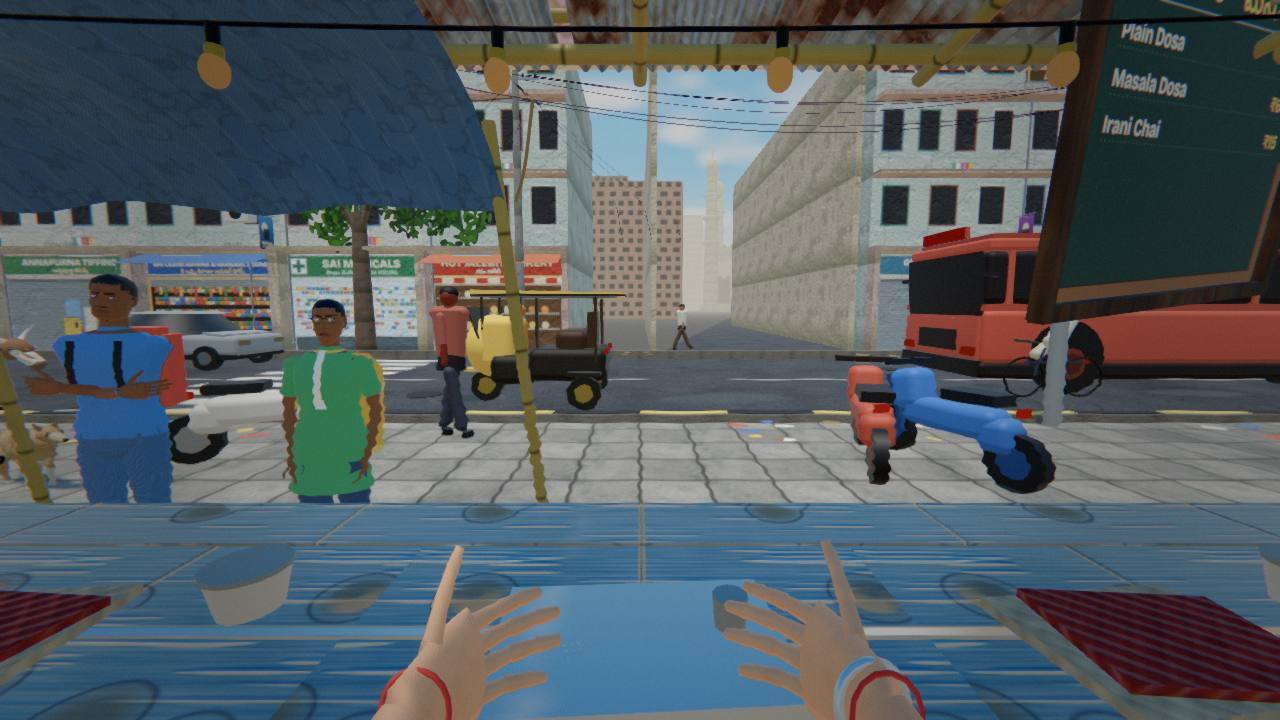
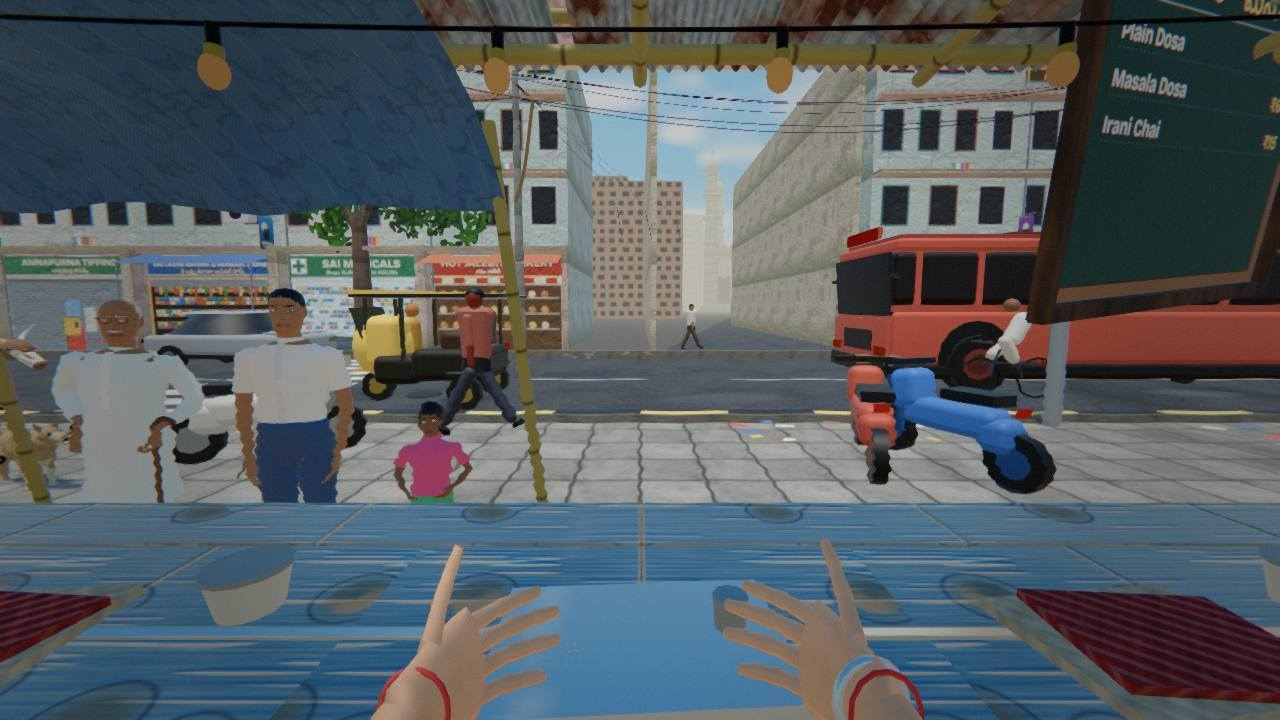
docs(perf): tf-prog2 report (programs, draws, load, hitches, screenshots, risks), final after-pictures, perf README

diff --git a/docs/perf/tf-prog2.md b/docs/perf/tf-prog2.md
@@ -2,132 +2,140 @@
 
 Branch `perf/tf-prog2` (cut from main `a4a2390`, main merged in at the end). It replaces the stalled `tf-prog` stream: that stream's unreviewed WIP (`13fd84c`) was
 reviewed, finished and wired in (section 2). Machine: the dev laptop's integrated AMD Radeon (`ANGLE (AMD, AMD Radeon(TM) Graphics (0x00001638) Direct3D11)`), Chrome
-headless on the real GPU, production build, 1536x864 @ 1.25, **tier pinned to medium** (see 0), practice level 1 unless a row says tutorial. Every A/B below is two
-builds (`main` on port 5852, the branch on 5853 / 5856) measured back to back or interleaved on the same machine, the same minutes.
+headless on the real GPU, production build, 1536x864 @ 1.25, **tier pinned to medium** (see 0), practice level 1 unless a row says tutorial. Every A/B is two builds
+(`main` on one preview port, the branch on another) measured back to back or interleaved on the same machine in the same minutes. Other agents were running builds and
+tests on this laptop all afternoon (CPU 60 to 75 % at times): the order of two builds in an interleaved pair is meaningful, an absolute number moves by 20 %.
 
 ## 0. What the default tier is on this machine, and what was measured
 
-On this machine **Auto ends on `lite`** (`bench.mjs --game tiffin`, no tier: `tier: lite`, 998 fps, 126 draw calls, 85 programs, 0 frames over 50 ms): the governor
-leaves `medium` because medium cannot hold its frame budget on the iGPU (tf-int, section 3). `lite` already meets the draw-call and program targets, and its load is
-4.2 s cold / 1.9 s warm. Everything that is wrong is in **medium** (and high), so every number here is medium, pinned through the Graphics setting
-(`--tier medium`). If medium gets cheap the governor has a reason to stay on it.
+On this machine **Auto ends on `lite`** (`bench.mjs --game tiffin`, no tier, quiet machine: `tier: lite`, 998 fps, 126 draw calls, 85 programs, 0 frames over 50 ms): the
+governor leaves `medium` because medium cannot hold its frame budget on the iGPU (tf-int, section 3). `lite` already meets the draw-call and program targets and loads in
+4.2 s cold / 1.9 s warm. Everything that is wrong is in **medium** (and high), so every number below is medium unless it says lite, pinned through the Graphics setting
+(`--tier medium`). If medium gets cheap the governor has a reason to stay on it. **Lite and low are not slower to load than on main** (section 3).
 
-## 1. Headline (medium, same conditions, main vs this branch)
+## 1. Headline (medium, main vs this branch)
 
 | | main (`a4a2390`) | this branch | how it was measured |
 |---|---|---|---|
-| shader programs created **after** the reveal | 9 in the first 3 s (every dish, 2 depth programs), then rain +4, cricket +2, festival +2, inspector +1 | **0** (60 s of level 1 and six forced events) | `tf-census.mjs`, `tf-events.probe.js`, `scene.debug.reveal` |
+| shader programs created **after** the reveal | 9 in the first 3 s (every dish, 2 depth programs), then rain +4, cricket +2, festival +2, inspector +1 | **0** (60 s of level 1 and six forced events; `tf-census --strict` passes) | `tf-census.mjs`, `tf-events.probe.js`, `scene.debug.reveal` |
 | programs at the reveal / after a session with events | 93-104 / 111 | 112-115 / 112 | same |
-| first appearance of an event (frames over 50 ms) | rain 252 ms, cricket 206, festival 359, inspector 131 (+113 geometries), rain+power+festival 161 | **none over 51 ms** (worst: power 50, cricket 51) | `tf-events.probe.js` forces each event on in the live page |
-| a customer walks up (frame that pays for it) | 15-50 ms (one 49 and one 50 ms frame in two 60 s runs) | **1-33 ms**, built a stage per frame (<= 8 ms each) | `tf-hitch.probe.js`, `tf-build-times.mjs` |
-| main-pass draw calls, **3 customers** (uncle, office, office) | 359 (463 with the shadow pass) | **166 (204)** | `tf-draws.probe.js` |
-| draw calls of ONE customer, main / shadow pass | 59-93 / 25-39 | **11-13 (family 20) / 7-8 (15)** | same |
-| main-pass draws, tutorial, no customers | 140 | **135** | `tf-who.probe.js` (onBeforeRender counter) |
-| `renderer.info.render.calls`, tutorial frame (shadow + post included) | 172 | **163** | `tf-load.mjs` |
-| load, warm shader cache (click to `window.__tiffin`) | 3.06 / 3.37 s | 3.81 / 3.81 s | `tf-load.mjs --passes 2`, 2 interleaved pairs |
+| first appearance of an event (worst frame) | rain 252 ms, cricket 206, festival 359, inspector 131 (+113 geometries), rain+power+festival 161 | **34 to 59 ms** in three runs (power 41-50, cricket 36-51, festival 37-59) | `tf-events.probe.js` forces each event on in the live page |
+| a customer walks up (the frame that pays for it) | 15-50 ms (a 49 and a 50 ms frame in two 60 s runs) | **0-33 ms**, built a stage per frame (<= 8 ms each) | `tf-hitch.probe.js`, `tf-build-times.mjs` |
+| main-pass draw calls with **3 customers** | 359 (463 with the shadow pass) | **153 (192)** | `tf-draws.probe.js` |
+| draw calls of ONE customer, main / shadow pass | 59-93 / 25-39 | **11-13 (family 20) / 7-9 (15)** | same |
+| main-pass draws, tutorial, no customers | 140 | **122** | `tf-who.probe.js` (onBeforeRender counter) |
+| `renderer.info.render.calls`, tutorial frame (shadow + post included) | 168-172 | **134-150** (traffic in view changes it) | `tf-who`, `tf-load.mjs` |
+| load, warm shader cache (click to `window.__tiffin`) | 3.06 / 3.37 s | 3.81 / 3.81 s (a later pair under load: main 3.5 / 3.5, branch 4.0 / 3.8) | `tf-load.mjs --passes 2`, interleaved pairs |
 | load, cold shader cache | 10.3 / 10.9 s | **11.9 / 12.3 s** | same |
-| long tasks of the 60 s level-1 run (>= 50 ms) | 1-3 | 0-2 | `tf-hitch.probe.js` (fixed render scale 0.7, no governor) |
-| frames over 50 ms after the first 3 s, same run | 1-2 | 0-2 | same |
+| lite load, warm / cold | 2.1-2.3 / 4.2-5.6 s | 2.3 / 4.6 s (unchanged) | `tf-load.mjs --tier lite` |
+| long tasks (>= 50 ms) in a 60 s level-1 run, fixed render scale 0.7 | 1-3 | 0-5 (the last run was under heavy machine load) | `tf-hitch.probe.js` |
+| frames over 50 ms after the first 3 s, same runs | 1-2 | 0-2 | same |
 
-**Not claimed: frame rate.** Two interleaved pairs of 60 s runs at a fixed scale: 3137 / 3136 frames (main) against 3586 / 3750 (branch); a later pair gave 3825 (main)
-against 3561 (branch). The customers that walk up differ between runs and the machine drifts by 20 %: I cannot say faster or slower from those. What is solid: the draw
-calls, the programs, the hitch tables. In the per-section profile (`h.cpu`) the render section's main-thread time went from 17.7-19.4 ms (357-435 calls) to 14.8-18.4 ms
-(208-222 calls) with the same GPU median (12.9-16.5 ms main, 12.9-14.0 branch): the frame is **GPU-bound on this iGPU at medium**, so fewer draws buy a few ms of
-command submission and no more.
+**Not claimed: frame rate.** Interleaved pairs of 60 s runs at a fixed scale gave 3137 / 3136 frames (main) against 3586 / 3750 (branch) early on, 3825 against 3561 later, and 2861
+in the last run (the laptop was busy): the customers that walk up differ between runs and the machine drifts by 20 %, I cannot say faster or slower from them. What is solid:
+the draw calls, the programs, the hitch tables. The per-section profile (`h.cpu`, two customers in view) put the render section's main-thread time at 17.7-19.4 ms (357-435 calls) on
+main and 14.8-18.4 ms (208-222 calls) on the branch with the same GPU median (12.9-16.5 ms main, 12.9-14.0 branch): the frame is **GPU-bound on this iGPU at medium**, so fewer
+draws buy a few ms of command submission and no more.
 
-Targets of the brief, honestly: no program after the reveal **met**; zero frames over 50 ms after 3 s **not met strictly** (0-2 per minute remain, none from a compile or a
-model build: section 4); click-to-playable warm <= 6 s **met** (3.8 s), cold <= 12 s **borderline** (11.9-12.3 s, +1.7 s over main because 10 more programs are
-linked behind the loading screen instead of in play); main-pass draw calls <= 120 **not met** (135 without customers, 166 with three; the customers are fixed, the
-static scene is not: section 5).
+Targets of the brief, honestly: **no program after the reveal: met** (medium and high; lite and low keep their old post-reveal dish warm-up: section 3); **zero frames over 50 ms after
+3 s: not met strictly** (0-2 a minute remain on both builds, none from a compile or a model build; section 4); **click-to-playable warm <= 6 s: met** (3.8 s), **cold <= 12 s:
+borderline** (11.9-12.3 s, +1.7 s over main because 10 more programs are linked behind the loading screen instead of in play); **main-pass draw calls <= 120: not met** (122 without
+customers, 153 with three; the customers are fixed, the static scene is not: section 5).
 
-## 2. What changed (commits `3d5037c`, `3b34587`, `812238a`)
+## 2. What changed (commits `3d5037c`, `3b34587`, `812238a`, `70079aa`)
 
-1. **Review of the WIP `13fd84c`.** Taken: `models/pack.js` (+ its tests), the `skin.js` packed material variants, the `pack` draw mode, `withEverythingDrawn`, the
-   probe scripts. Rewritten: the preload was never called (its `warmPark` was added to the actors root for every scene, which broke the scene test that counts the actors'
-   children; the tools could not be warmed because the viewmodel did not exist yet; the world fx update ran every frame once they were created). `zz-census.scratch.test.js`
-   was not taken.
-2. **Packed people** (`models/pack.js`, medium and high; lite and low keep their baked path). The rig (limbs, cloth, face morph targets, IK) is untouched and still
-   drives its own nodes; every skin / eye / hair / plain-standard mesh of a person is written, after the rig's update, into ONE dynamic mesh per shading class (skin,
-   eye, hair, uber, plus one per odd material) and the rig's own meshes are retired (`isMesh` shadowed by false: not drawn, not shadowed, not compiled). The face skin
-   (13 GPU morph targets) and transparent / emissive props stay live. A customer is 11-13 draws (+7-8 in the shadow pass) instead of 59-93 (+25-39), the cook's own
-   arms 4. **Picture checked** (section 6): the same six customers photographed unpacked and packed differ by 2.5 grey levels on average inside the people region
-   (1.7 % of the pixels over 16), the interiors are identical and only sub-pixel silhouette edges differ.
-3. **One of everything is built, linked and drawn before the reveal** (`sync.preload()`, `settleFirstFrame` in `scene/index.js`, `withEverythingDrawn` in `loader.js`): the
-   weather and the events' props, the inspector, the delivery rider and his scooter, a parcel bag, a regular's star, a plate of every dish (and one `perfect` plate: the wisp
-   shader), every tool of the cook's hands, one customer of every kind and a cook (as before). The scene is then drawn ONCE with every hidden object visible and nothing
-   culled (parked customers, rain, TV, tools, far street), which pays the first-draw cost of everything: uploads, the shadow-depth programs, the driver's per-program
-   first use. A second, normal frame follows. The post-reveal shader warm-up (one dish per frame for 12 s: the hitches at 3 to 5 s) is gone. `scene.debug.reveal`
-   ( `{ atReveal, count, late: [...] }`, `createRevealWatch` in `loader.js`, unit-tested) lists any program created after the reveal; `tf-census.mjs --strict` exits 1 when
-   there is one. (A tier switch builds the new tier's programs on purpose, behind a held frame: it is listed too.)
-4. **Customers are built a stage per frame** (`buildPersonSteps`, `buildCustomerSteps`: head, body, hair, clothes, props, pose, packing; `sync.stepBuilds`, a 5 ms budget a
-   frame). Warm stage times (`tf-build-times.mjs`, six kinds x three seeds): 0.1 to 8 ms per step, 9 to 21 ms for the whole build (it was ~27). The customer appears a few
-   frames after the state says so (the walk-in lasts 1.5 s); a customer who is gone before he is ready is dropped, the first state and late joins are still built at once.
-5. **Tint merge** (`merge.js`): textured standard materials with the same texture set and only a different colour (the street's plasters: one texture, six paints) fold into
-   one vertex-coloured draw (`isTintable`, `tintMaterialFor`, 3 tests). Street-static 19 -> 14 draws.
-6. Probes (all `tf-probe.mjs` bodies unless noted): `tf-draws`, `tf-who` (every drawn object and its material, from an `onBeforeRender` counter), `tf-hitch` (every frame with
-   its cause), `tf-cpu`, `tf-events`, `tf-nodes`, `tf-dead`, `tf-progsize`; `tf-people-qa.mjs` (packed against unpacked people, needs a Vite dev server as the base), `tf-census.mjs
-   --strict`.
+1. **Review of the WIP `13fd84c`.** Taken: `models/pack.js` (+ tests), the `skin.js` packed material variants, the `pack` draw mode, `withEverythingDrawn`, the probe scripts.
+   Rewritten: the preload was never called (its `warmPark` was added to the actors root for every scene, which broke the scene test that counts the actors' children; the tools could not
+   be warmed because the viewmodel did not exist yet; the world fx update ran every frame once they were created). `zz-census.scratch.test.js` was not taken.
+2. **Packed people** (`models/pack.js`, medium and high; lite and low keep their baked path). The rig (limbs, cloth, face morph targets, IK) is untouched and still drives its own nodes;
+   every skin / eye / hair / plain-standard mesh of a person is written, after the rig's update, into ONE dynamic mesh per shading class (skin, eye, hair, uber, plus one per odd
+   material) and the rig's own meshes are retired (`isMesh` shadowed by false: not drawn, not shadowed, not compiled). The face skin (13 GPU morph targets) and transparent / emissive
+   props stay live. A customer is 11-13 draws (+7-9 in the shadow pass) instead of 59-93 (+25-39), the cook's own arms 4 (was 12). **Picture checked** (section 6).
+3. **One of everything is built, linked and drawn before the reveal** (medium and high; `sync.preload()`, `settleFirstFrame` in `scene/index.js`, `withEverythingDrawn` in `loader.js`): the weather
+   and the events' props, the inspector, the delivery rider and his scooter, a parcel bag, a regular's star, a plate of every dish (and one `perfect` plate: the wisp shader), every tool
+   of the cook's hands, one customer of every kind and a cook (as before). The scene is then drawn ONCE with every hidden object visible and nothing culled (parked customers, rain, TV,
+   tools, far street): the first-draw cost of everything (uploads, the shadow-depth programs, the driver's per-program first use) is paid behind the loading screen; a second, normal frame
+   follows. The post-reveal shader warm-up (one dish per frame for 12 s: the hitches at 3 to 5 s) is gone. `scene.debug.reveal` (`{ atReveal, count, late: [...] }`, `createRevealWatch` in
+   `loader.js`, unit-tested) lists any program created after the reveal; `tf-census.mjs --strict` exits 1 when there is one. A tier switch builds the new tier's programs on purpose (behind a
+   held frame): it is listed too.
+4. **Customers are built a stage per frame** (`buildPersonSteps`, `buildCustomerSteps`: head, body, hair, clothes, props, pose, packing; `sync.stepBuilds`, a 5 ms budget a frame, all tiers).
+   Warm stage times (`tf-build-times.mjs`, six kinds x three seeds): 0.1 to 8 ms per step, 9 to 21 ms for the whole build (it was ~27). The customer appears a few frames after the state says so
+   (the walk-in lasts 1.5 s); one who is gone before he is ready is dropped; the first state and late joins are still built at once.
+5. **Tint merge** (`merge.js`): textured standard materials with the same texture set and only a different colour (the street's plasters: one texture, six paints) fold into one
+   vertex-coloured draw (`isTintable`, `tintMaterialFor`, 3 tests). Street-static 19 -> 13 draws.
+6. **The traffic in two draws** (`street.js`, `street-batch.js`, 4 tests): every vehicle kind, the parked scooters and the pedestrians' torsos and legs already shared one body material and
+   one lamp material; one `BatchedMesh` now draws all the bodies and one all the lamps (a body and a lamp `InstancedMesh` per kind in view: 18 draws). A slot object speaks the
+   `InstancedMesh` calls the street code already makes. The static merger and the shadow proxy never swallow a `BatchedMesh`. (The street's tint-mask shader patch looks for
+   `vColor.xyz *= instanceColor.xyz`, which three r187 writes as `vColor.rgb *= instanceColor.rgb`: the patch does nothing today, every instance is tinted whole; the batch keeps that look.)
+7. **`forceSinglePass`** on the additive flame, glow and light-shaft shaders: three.js draws a transparent double-sided material twice (back faces, then front) with two program variants;
+   additive blending is order-independent, so one pass is the same picture.
+8. Probes (all `tf-probe.mjs` bodies unless noted): `tf-draws`, `tf-who` (every drawn object and its material), `tf-hitch` (every frame with its cause), `tf-cpu`, `tf-events`, `tf-nodes`,
+   `tf-dead`, `tf-progsize`, `tf-ds`; `tf-people-qa.mjs` (packed against unpacked people, needs a Vite dev server as the base), `tf-census.mjs --strict`.
 
-## 3. Programs
+## 3. Programs, and the tiers
 
-* Census after 60 s of level 1 (`tf-census.mjs`): main 93 at the reveal, 102 after 60 s, 111 once the events had run; branch **112 at the reveal and 112 later**, none created
-  after (`scene.debug.reveal.count` 0 as well). Fragment shaders are 72 KB on average (85-93 KB for the lit ones: 7 point lights, shadows, env map; `tf-progsize`); that, not
-  the number of draws, is what a cold link pays for (about 70 ms a program here).
-* Customers added **no** program per kind: the packed skin / eye / hair / uber programs are the same for all six kinds (that is the programs-per-customer-kind lever the
-  brief asked for; weather, events and dishes are not through uniforms, they are pre-compiled: section 2.3).
-* The census' "dead" programs (20 in the first census) are not waste: 4 are PMREM, 5 the post passes, 2 depth, and the rest are three.js's back-face variants of
-  transparent double-sided materials (the renderer draws them back, then front, switching `side` and re-keying the program: `tf-dead.probe.js` shows each differs from its
-  live twin by the side bit only). `forceSinglePass` on the planar ones would save about 3 programs and 3 draws; not done.
-* `MeshPhysicalMaterial` -> `MeshStandardMaterial` was **not** done: the ones left are physical because they use clearcoat, sheen or anisotropy (brushed steel, leaf, glass,
-  porcelain, the eyes, food); the pbr materials are shared and switch their normal map / anisotropy per tier through `registerQuality`, so a clone would not follow a tier change.
+* Census after 60 s of level 1: main 93 at the reveal, 102 after 60 s, 111 once the events had run; branch **112 at the reveal and 112 later**, none created after (`scene.debug.reveal.count` 0 as well).
+  Fragment shaders are 72 KB on average (85-93 KB for the lit ones: 7 point lights, shadows, env map; `tf-progsize`): that, not the number of draws, is what a cold link pays for (about 70 ms
+  a program here). The cook's hand tools alone own 16 programs.
+* Customers added **no** program per kind: the packed skin / eye / hair / uber programs are the same for all six kinds (the programs-per-customer-kind lever the brief asked for; weather,
+  events and dishes are not made uniform-driven, they are pre-compiled: section 2.3).
+* **Lite and low do not get the preload.** The first A/B on lite (preload on for every tier) measured warm load 2.1 -> 3.3 s, cold 4.2-5.6 -> 6.4-7.1 s, 85 -> 99 programs, 123 -> 897
+  geometries and one 1.4-1.9 s task: lite's programs are small and it never stuttered on them, so the preload runs only where shadows are on (medium, high). With the gate lite is 2.3 s warm /
+  4.6 s cold, 84 programs, as on main; its dishes are still warmed after the reveal, as before. The sliced customer build and the traffic batch apply to every tier (lite and low sanity runs:
+  customers arrive and leave, no errors).
+* The census' "dead" programs (20 in the first census) are not waste: 4 are PMREM, 5 the post passes, 2 depth, the rest three.js's back-face variants of transparent double-sided materials
+  (`tf-dead.probe.js`: each differs from its live twin by the side bit only). `tf-ds.probe.js` lists the 25 transparent double-sided materials of the scene; forcing every one single-pass
+  saves 2 more draws, not done.
+* `MeshPhysicalMaterial` -> `MeshStandardMaterial` was **not** done: the physical ones left use clearcoat, sheen or anisotropy (brushed steel, leaf, glass, porcelain, the eyes, food); the
+  pbr materials are shared and switch normal map / anisotropy per tier through `registerQuality`, so a clone would not follow a tier change.
 
 ## 4. Hitches
 
-* **Events (`tf-events.probe.js`, level 1, scale 0.7, each event forced on for 6 s):** main: rain 252 ms frame (4 programs), cricket 206 (2), festival 359 (2), inspector 131
-  (1 program, 113 geometries), the three together 161; branch (two runs): no frame over 51 ms, **0 new programs**, 0 to 20 new geometries (the cricket TV's own 9).
-* **Customer arrival (`tf-hitch.probe.js`):** main's arrival frames 15, 32, 49, 28, 50 ms; branch 1, 33, 31, 17, 20, 21, 2, 15 ms. One 51 ms frame 140 ms after an arrival
-  remains in one of the branch runs (not a program, not a geometry: no counter moved; not identified).
+* **Events (`tf-events.probe.js`, level 1, scale 0.7, each event forced on for 6 s):** main: rain 252 ms frame (4 programs), cricket 206 (2), festival 359 (2), inspector 131 (1 program,
+  113 geometries), the three together 161; branch (three runs): worst frames 34-59 ms, **0 new programs**, 0 to 20 new geometries (the cricket TV's own 9 to 10).
+* **Customer arrival (`tf-hitch.probe.js`):** main's arrival frames 6, 15, 19, 32, 49, 50 ms; branch 0, 1, 2, 10, 11, 13, 17, 18, 20, 31, 33 ms. One 51 ms frame 140 ms after an arrival remains in
+  one branch run (no counter moved: not a program, not a geometry; not identified).
 * **The first 3 s after the reveal:** the post-reveal warm-up is gone; the one 60 to 64 ms frame at ~3.3 s in both builds is the probe's own `setScale`.
-* **What still crosses 50 ms:** 0 to 2 frames a minute on both builds (a GC pause, the first draw of a texture such as the cricket canvas, a tier switch). Not met strictly.
+* **What still crosses 50 ms:** 0 to 2 frames a minute on both builds (a GC pause, the first draw of a canvas texture such as the cricket TV's, a tier switch). Not met strictly.
 
 ## 5. Draw calls
 
-| group (tutorial, no customers, medium; `tf-who.probe.js`) | main-pass draws |
-|---|---|
-| street: static textured meshes (one per texture set), upper storeys, hoardings, blade signs, decals, tubes, monument, merged | 43 (was 48) |
-| stall: merged PBR sets (26) and static (6) | 32 |
-| stall: station props (kadai 7, steamer 2, tawa, chai), flame / steam shader quads, particles | 28 |
-| traffic: instanced vehicles (a body and a lamp mesh per kind in view) | 18 |
-| the dog (7 animated parts), the cart | 8 |
-| the cook's arms (packed: 4, was 12), sky, point sprites | 8 |
-| **total** | **135** (was 140) |
+| group (tutorial, no customers, medium; `tf-who.probe.js`) | main-pass draws | was |
+|---|---|---|
+| street: static textured meshes (one per texture set), upper storeys, hoardings, blade signs, decals, tubes, monument, merged | 43 | 48 |
+| stall: merged PBR sets (26) and static (6) | 32 | 32 |
+| stall: station props (kadai, steamer, tawa, chai), flame / steam shader quads, particles | 26 | 28 |
+| traffic: bodies + lamps of every kind (one `BatchedMesh` each) and the few instanced extras | 5 | 18+ |
+| the dog (7 animated parts), the cart | 8 | 8 |
+| the cook's arms (packed), sky, point sprites | 8 | 16 |
+| **total** | **122** | **140** |
 
-What the list says: the remaining draws are one per **texture set** (the shop faces, signs and hoardings are painted canvases, unique per object) and one per **animated
-part**; neither merges without an atlas (the detail normal / roughness maps repeat per material, so an atlas needs a custom shader) or a rewrite of the traffic into a
-`BatchedMesh` (all kinds in one draw: worth trying, not started). The packed customers are where the draws were: 3 customers cost 43 draws now, 215 before.
+What the list says: the remaining draws are one per **texture set** (the shop faces, signs and hoardings are painted canvases, unique per object) and one per **animated part**. Neither merges
+without an atlas (the detail normal / roughness maps repeat per material, so an atlas needs a custom shader) or packing the dog like a person. The packed customers are where the draws
+were: three cost 31-37 draws now, 215 before; a frame with three customers and the street is 153.
 
 ## 6. Screenshots (`docs/perf/tf-prog2/`, JPEG q72, 1280 wide, HUD hidden, medium, same camera; everything that moves by itself differs between two shots)
 
 | file | what I see |
 |---|---|
 | `people-rig-h13.jpg` / `people-pack-h13.jpg` | the SAME six customers (office, student, family with the child in front, uncle with his stick, autowala, techie), once with the rig's own meshes, once packed, built in the live page at the six customer spots, noon, street hidden. I could not tell them apart by eye: faces, the glasses, the cap, the kurta placket, the backpack, the laptop bag, the stick, the hands |
-| `diff-people-h13.jpg` | amplified x4 difference of the two: the people's interiors are black; thin lines on silhouettes and the cook's hands (the viewmodel animates between the two shots) and the flames |
-| `before-h9.jpg` / `after-h9.jpg` | tutorial, 09:00: the stall (awning, drums, wok, hands, menu board) and the street (shop signs, buildings, plaster colours, the end-of-lane tower) match; the traffic is different (random) |
+| `diff-people-h13.jpg` | amplified x4 difference of the two: the people's interiors are black (mean difference 2.5 grey levels in the people region, 1.7 % of the pixels over 16); thin lines on silhouettes, the cook's hands (the viewmodel animates between the two shots) and the flames |
+| `before-h9.jpg` / `after-h9.jpg` | tutorial, 09:00: the stall (awning, drums, wok, hands, menu board) and the street (shop signs, buildings and their plaster colours, the tower at the end of the lane) match; the traffic is different (random) |
 | `before-h13.jpg` / `after-h13.jpg` | noon: same; the bus in a different place |
 | `before-h19_5.jpg` / `after-h19_5.jpg` | dusk: the bulbs and their glow, the purple sky, the lit windows, the tail lights and the sauce in the wok match |
-| `before-customers-h13.jpg` / `after-customers-h13.jpg` | level 1, 30 s in: different customers (the random ones), the same stall and street; `after` shows two customers (blue shirt with bag, green kurta), a pedestrian, a tuk-tuk and the bus |
-| `after-phone-h19_5.jpg` | 844x390 @ 2 at dusk: the phone landscape picture with two customers, bulbs and bloom |
+| `before-customers-h13.jpg` / `after-customers-h13.jpg` | level 1, 30 s in: different customers (random), the same stall and street; `after` shows the uncle, an office worker and the child, a pedestrian, a tuk-tuk, a scooter, the bus: three customers and a busy street |
+| `after-phone-h19_5.jpg` | 844x390 @ 2 at dusk (final build): two customers, bulbs and bloom, a parked scooter with its tail lights |
 
-The inspector, the delivery rider and the cook's avatar were photographed unpacked / packed the same way (mean difference 2.0 in the people region): identical to the eye
-(not kept: twelve images at most). The tint merge shows up nowhere in the before / after pairs: the street's building bodies keep their six tints.
+Also photographed and compared, not kept (twelve images at most): the inspector, the delivery rider and the cook's avatar packed against unpacked (mean difference 2.0 in the people
+region, identical to the eye); the batched traffic at 09:00, 13:00 and 22:00 (bus, tuk-tuks, scooters, riders, head and tail lights as before).
 
 ## 7. Tests and commands
 
-`npx vitest run src/games/tiffin-centre shared/tiffin-centre src/platform/gfx` and `npx vite build`: see the end of the report (final run after the merge of main).
-New or changed tests: `models/pack.test.js` (every kind in every mood: the packed buffers equal the rig's meshes to 2e-5; classification; hidden parts; dispose),
-`models/customers.steps.test.js` (the stepped build equals the one-shot build for every kind, yields at least 5 / 8 times, is alive), `models/merge.test.js` (tint merge: six
-paints in one mesh with their colours, anything else keeps its own mesh, off without the uber option), `scene/loader.test.js` (`createRevealWatch`, `withEverythingDrawn` and its
-restore on a throw, `applyModelTier` packs medium / high only).
+`npx vitest run src/games/tiffin-centre shared/tiffin-centre src/platform/gfx` (104 files, 2408 tests, all passing; run before the last merge of main, which only touched `src/platform/game`) and `npx vite build` (passes).
+New or changed tests: `models/pack.test.js` (every kind in every mood: the packed buffers equal the rig's meshes to 2e-5; classification; hidden parts; dispose), `models/customers.steps.test.js`
+(the stepped build equals the one-shot build for every kind, yields at least 5 / 8 times, is alive), `models/merge.test.js` (tint merge: six paints in one mesh with their colours, anything
+else keeps its own mesh, off without the uber option), `scene/street-batch.test.js` (slots, colours, matrices land on the right instance, bad geometry refused, never merged statically),
+`scene/loader.test.js` (`createRevealWatch`, `withEverythingDrawn` and its restore on a throw, `applyModelTier` packs medium / high only).
 
 ```powershell
 node scripts/perf/tf-census.mjs --base http://127.0.0.1:5856 --port 9880 --tier medium --level 1 --seconds 60 --strict      # exit 1 if a program appears after the reveal
@@ -140,29 +148,32 @@ node scripts/perf/tf-people-qa.mjs --base http://127.0.0.1:<vite dev port> --por
 
 ## 8. Risks
 
-* **Memory:** the preload draws everything once, so the renderer holds **647 geometries and 236 textures at the reveal (main: 151 and 150)**; main reached about 240 / 180 in a long
-  session (tf-cpu soak), so this is the plateau reached early. JS heap is the same (90-103 MB). GPU memory was not measured.
-* **Cold load +1.7 s** (10 more programs linked before the reveal); a returning player (warm cache) pays +0.75 s. The same programs were compiled in play before, as 100 to 360 ms
+* **Memory (medium, high):** the preload draws everything once, so the renderer holds **556-647 geometries and 236-242 textures at the reveal (main: 151 and 150)**; main reached about 240 / 180 in a
+  long session (tf-cpu soak), so this is the plateau reached early. JS heap is the same (90-103 MB). GPU memory was not measured.
+* **Cold load +1.7 s** on medium (10 more programs linked before the reveal); a returning player (warm cache) pays +0.4 to 0.75 s. The same programs were compiled in play before, as 100 to 360 ms
   hitches at the first dish, the first rain, the inspector.
 * **A customer appears 3 to 8 frames after the state says so** (sliced build); `speak()` for him before that is ignored (the first ~100 ms of his first line has a still mouth).
-* **Packing relies on `isMesh` being shadowed on the retired rig meshes** (three r187 sets it per instance in the constructor; `dispose()` puts it back) and on the rig meshes'
-  world matrices being current when `update()` runs; anything that walks a person's tree with `isMesh` (`shade`, `limitShadowCasters`) skips the retired ones. The visible
-  face still uses the unpacked skin program (morph targets on the GPU).
-* **Tier switches** still compile their new programs (behind a held frame): `scene.debug.reveal` lists them, they are not a violation.
-* Tint merge clones the first material of a group: the tint clone does not follow a later change of that material (none of the street's std materials changes).
+* **Packing relies on `isMesh` being shadowed on the retired rig meshes** (three r187 sets it per instance in the constructor; `dispose()` puts it back) and on the rig meshes' world matrices being
+  current when `update()` runs; anything that walks a person's tree with `isMesh` (`shade`, `limitShadowCasters`) skips the retired ones. The visible face still uses the unpacked skin program.
+* **The traffic `BatchedMesh` needs `WEBGL_multi_draw` to be one draw** (ANGLE has it; three.js falls back to a draw per geometry without it: the old count, never a wrong picture). Instances are culled by
+  their own sphere, so a vehicle partly in view is drawn whole.
+* **High tier:** a 70 s census created no program after the reveal (117 at the reveal), but one earlier 60 s run showed a shadow-depth program 24 s in (a 391 ms frame at a customer's arrival): a
+  customer look (hair style, headwear) the parked ones did not cover can still bring a depth variant. Medium: none in five runs. Not chased (high runs at about 8 fps on this iGPU).
+* **Tier switches** still compile their new programs (behind a held frame): `scene.debug.reveal` lists them, they are not a violation. After a switch the old post-reveal warm-up runs again.
+* Tint merge clones the first material of a group: the clone does not follow a later change of that material (none of the street's std materials changes).
 
 ## 9. Not done
 
-* Main-pass draw calls <= 120 (135 / 166): the static scene's one-draw-per-texture-set and the traffic (a `BatchedMesh` would take it to ~1-2 draws; an atlas for the
-  painted signs would take ~15 more).
-* Texture baking in a worker (`models/textures-pbr.js`, `scene/art.js`): not touched; the load is 0.9 s of it, behind the loading screen, in slices.
+* Main-pass draw calls <= 120 with customers (122 without, 153 with three): the static scene's one-draw-per-texture-set and the dog; an atlas for the painted signs would take ~15 more.
+* Texture baking in a worker (`models/textures-pbr.js`, `scene/art.js`): not touched; the load spends ~0.9 s on it behind the loading screen, in slices.
 * Zero per-frame allocation audit of `sync.js` / `pack.js` (`for..of` over Maps and the `outs` array allocate an iterator a frame); not measured as a cost.
 * `matrixAutoUpdate = false`: 2203 of 2362 nodes update every frame, `scene.updateMatrixWorld()` costs **0.32 ms** (`tf-nodes.probe.js`): not worth the risk.
-* Customer pooling: not needed once the build is sliced (a build is 9 to 21 ms spread over 5 frames, a customer lives for a minute).
-* Physical -> Standard, forceSinglePass on planar transparent shaders: section 3.
+* Customer pooling: not needed once the build is sliced (a build is 9 to 21 ms over ~5 frames, a customer lives for a minute).
+* Physical -> Standard, forceSinglePass on the planar transparent materials left (2 draws): section 3.
+* Lowering the cold link further needs fewer / lighter lit programs (tf-gpu's shaders), e.g. the 16 programs of the hand tools.
 
 ## 10. Files outside my list
 
-`src/games/tiffin-centre/scene/index.js` (tf-int's): import of `withEverythingDrawn` / `createRevealWatch`, `sync.preload()` called in `settleFirstFrame`, the two-frame first
-render, the post-reveal warm-up skipped when the load settled, `scene.debug.reveal`. `scripts/perf/{tf-census,tf-groups,tf-shot}.mjs` (small) and the new probes. Nothing in
-`shared/`, `worker/` or `src/platform/`.
+`src/games/tiffin-centre/scene/index.js` (tf-int's): import of `withEverythingDrawn` / `createRevealWatch`, `sync.preload()` called in `settleFirstFrame` on shadow tiers, the two-frame first render,
+the post-reveal warm-up skipped when the load preloaded, `scene.debug.reveal`. `models/shaders/flame.js`, `scene/stall.js` (`forceSinglePass`; tf-gpu's / mine). `scripts/perf/{tf-census,tf-groups,tf-shot}.mjs`
+(small) and the new probes. Nothing in `shared/`, `worker/` or `src/platform/`.
